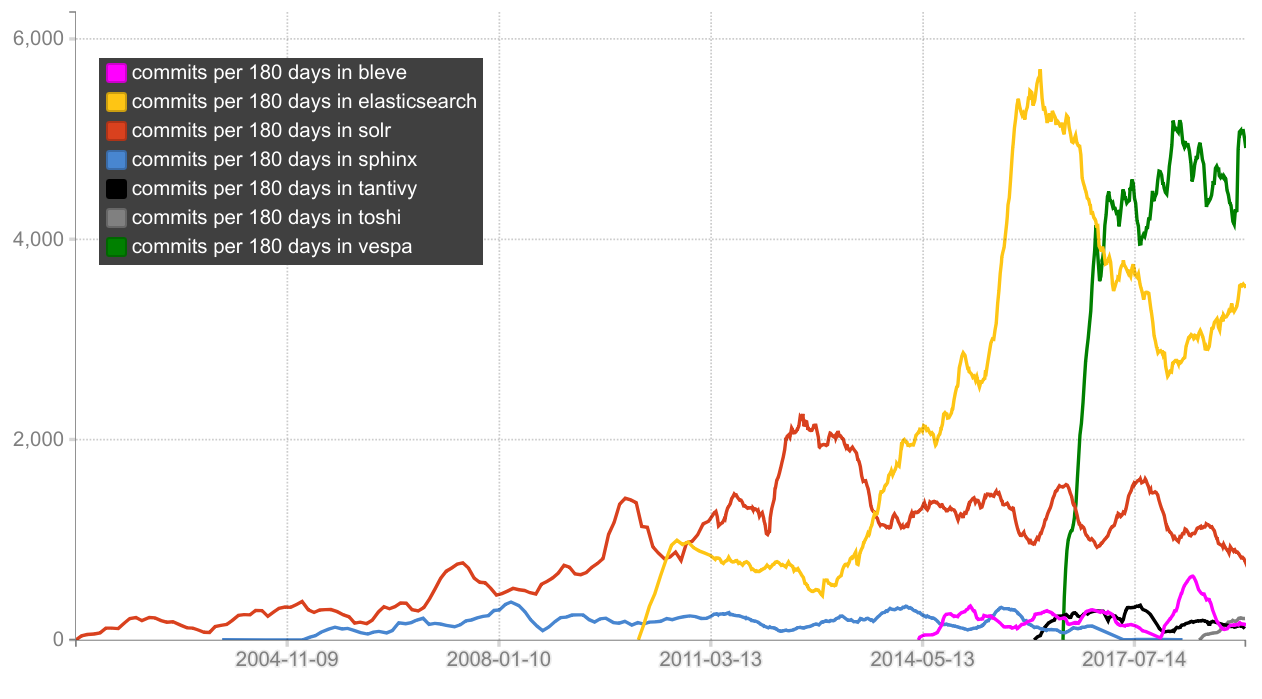
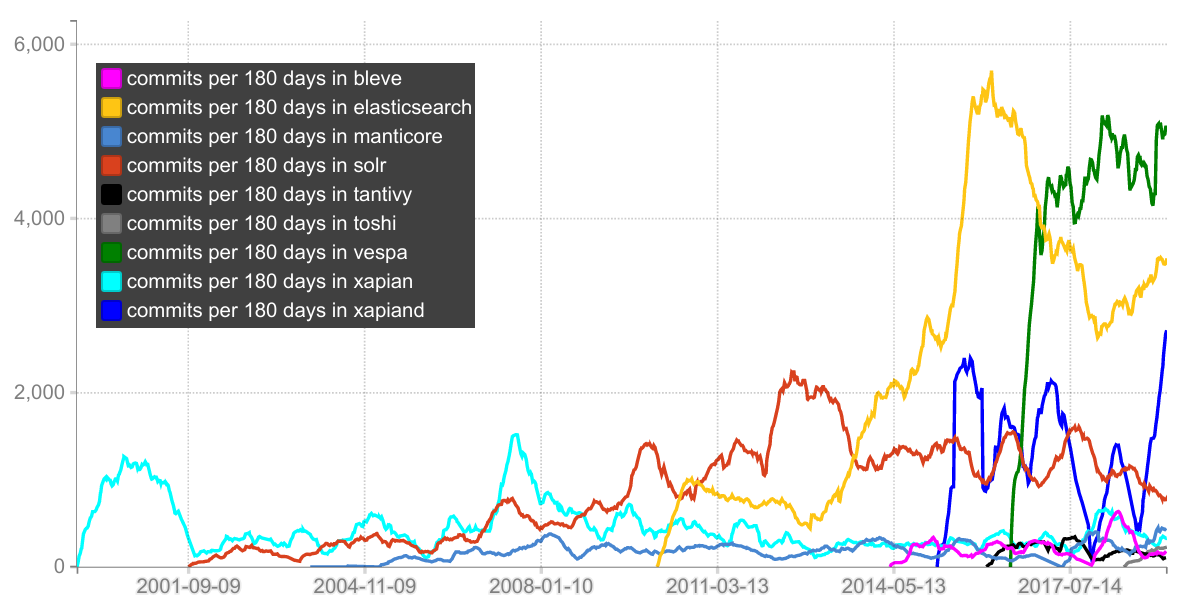
One more open source competitors graph

diff --git a/_posts/2019-04-08-elastic-search-introduction.md b/_posts/2019-04-08-elastic-search-introduction.md
@@ -294,13 +294,20 @@ same git repository (and ES uses Lucene). Also, note that the first commit in
 the Vespa repository is a 2.5 MLOC behemoth diff that represents the squashed
 history up to that point (i.e. this codebase is literally _decades_ old).
 
-<img src="/assets/elasticsearch-open-source-competitors-2.png">
+<img src="/assets/elasticsearch-open-source-competitors.png">
 
 I also plotted the number of commits pushed to each project per 180 day window
 (this says nothing about the quality or size of the commits ofc). It shows that
 Vespa has a higher commit rate than ES right now:
 
-<img src="/assets/elasticsearch-open-source-commit-rates-2.png">
+<img src="/assets/elasticsearch-open-source-commit-rates.png">
+
+This final plot shows the number of git authors with 5 or more commits per 90
+days (I use this as a proxy metric for counting the number of "full time
+developers" working on a project). For example, the Xapiand project have
+essentially 3 developers working on it:
+
+<img src="/assets/elasticsearch-open-source-author-counts.png">
 
 # How Elasticsearch is licensed
 
